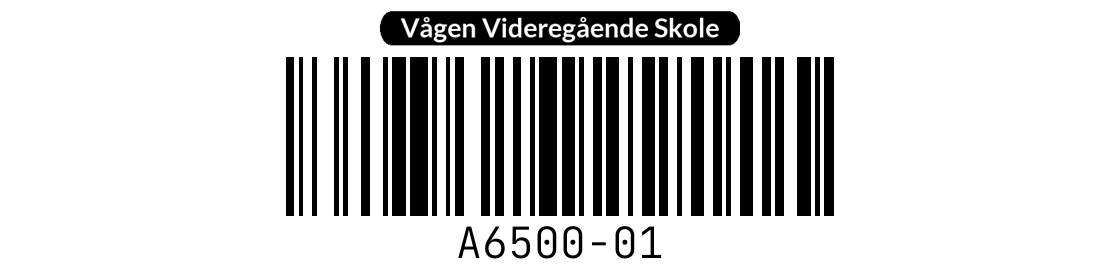
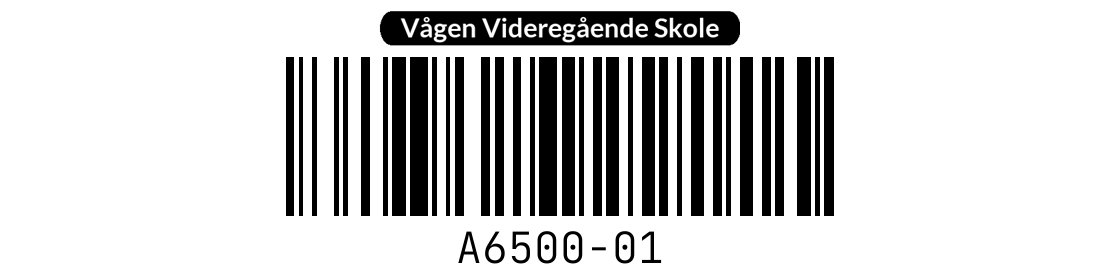
Adjust Y

Changed region(s): [[0.4062, 0.8, 0.5938, 0.9429]]

diff --git a/src/LabelGenerator.py b/src/LabelGenerator.py
@@ -121,7 +121,7 @@ def _barcode_label(content: InventoryItem) -> PIL.Image:
     while (id_draw.textbbox((0, 0), content.id, font=font_id, align="left", anchor="mm")[2] * 2) > lx - padding:
         font_id = font_id.font_variant(size=font_id.size - 1)
     id_draw.text(
-        (lx / 2, ly - 38),
+        (lx / 2, ly - 33),
         content.id,
         font=font_id,
         fill="black",
